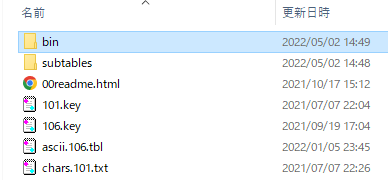
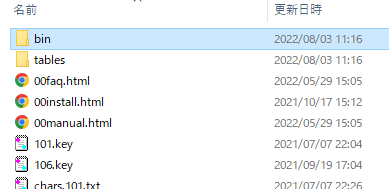
Update README & FAQ

diff --git a/README.md b/README.md
@@ -1,19 +1,20 @@
 ###### TOP
 
 # KanchokuWS -- 漢直Win Spoiler -- インストールガイド
-KanchokuWS は、[漢直Win（漢直窓）](https://github.com/kanchoku/kw)の使い勝手を受け継ぎ、
+KanchokuWS (漢直WS) は、[漢直Win（漢直窓）](https://github.com/kanchoku/kw)の使い勝手を受け継ぎ、
 かつ、利用者を徹底的に甘やかすことを目標として新たに開発された、
 Windows 用の漢字直接入力ツールです。
 また、複数キーの同時打鍵もサポートしているので、
 各種かな配列の実装プラットフォームとして利用することもできます。
 
-本書は KanchokuWS のインストール、起動および終了について説明したものです。
+本書は 漢直WS のインストール、起動および終了について説明したものです。
 やりたいことから調べるには[FAQ](blob/main/FAQ.md)を、
 より詳細な利用方法については[利用者ガイド](blob/main/MANUAL.md)を参照ください。
 
 ## 目次
 
-- [動作環境](#動作環境)
+- [動作環境と注意](#動作環境と注意)
+    - [注意](#注意)
 - [インストールとアンインストール](#インストールとアンインストール)
     - [インストール](#インストール)
     - [アンインストール](#アンインストール)
@@ -24,13 +25,27 @@ Windows 用の漢字直接入力ツールです。
 - [漢直モードに入る](#漢直モードに入る)
     - [漢直モードキーの変更](#漢直モードキーの変更)
 - [漢直モードから出る](#漢直モードから出る)
-- [終了](#終了)
+- [ツールの終了](#ツールの終了)
 - [利用条件と免責](#利用条件と免責)
 
-## 動作環境
+## 動作環境と注意
 動作対象環境は以下のとおりです。
 
 Windows 10 および .NET Framework 4.8
+
+### 注意
+漢直WS は、
+利用者によるキー入力情報を取得するために「**グローバルフック**」という手法を用いています。
+
+この手法は、本来はデバッグ用途などでの一時的な使用が想定されており、
+常用した場合はシステムの反応速度の低下などをもたらす可能性があります。
+
+以下は Microsoft社のドキュメント「[フックの概要](https://docs.microsoft.com/ja-jp/windows/win32/winmsg/about-hooks)」にある注意書きです。
+
+![Global Hook Ms Caution](FAQ/image/global-hook-ms-caution.png)
+
+漢直WS を利用される場合は、上記注意をご理解いただき、
+末尾の「[利用条件と免責](#利用条件と免責)」に同意の上でのご利用をお願いします。
 
 ## インストールとアンインストール
 ### インストール

diff --git a/FAQ/FAQ-配列作成.md b/FAQ/FAQ-配列作成.md
@@ -149,6 +149,10 @@
 -$xfer>"!{Xfer}"
 ```
 
+下図は NICOLA における設定例です。
+
+![Xfer Nfer Single](image/xfer-nfer-single.png)
+
 ## 「無変換」キーや「変換」キーを拡張シフトキーとして使いたい
 SandS と同様に「無変換」や「変換」もシフトキーとして使いたいというケース。
 同時打鍵ではなく、あくまでも「シフトキー」と同様の使い方をしたい場合となります。
